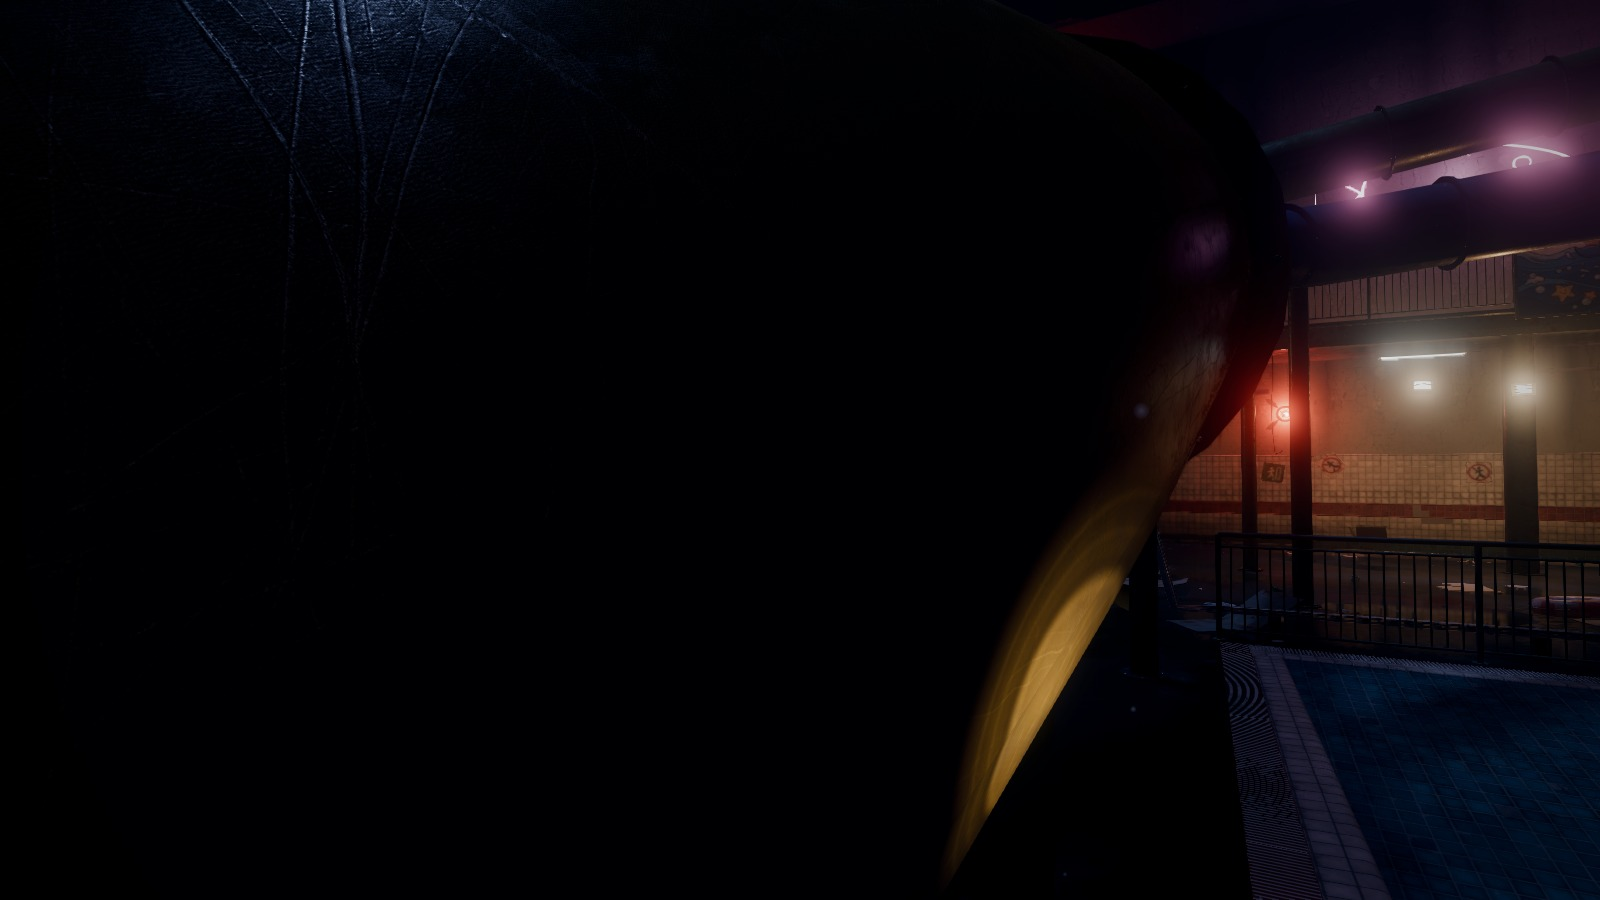
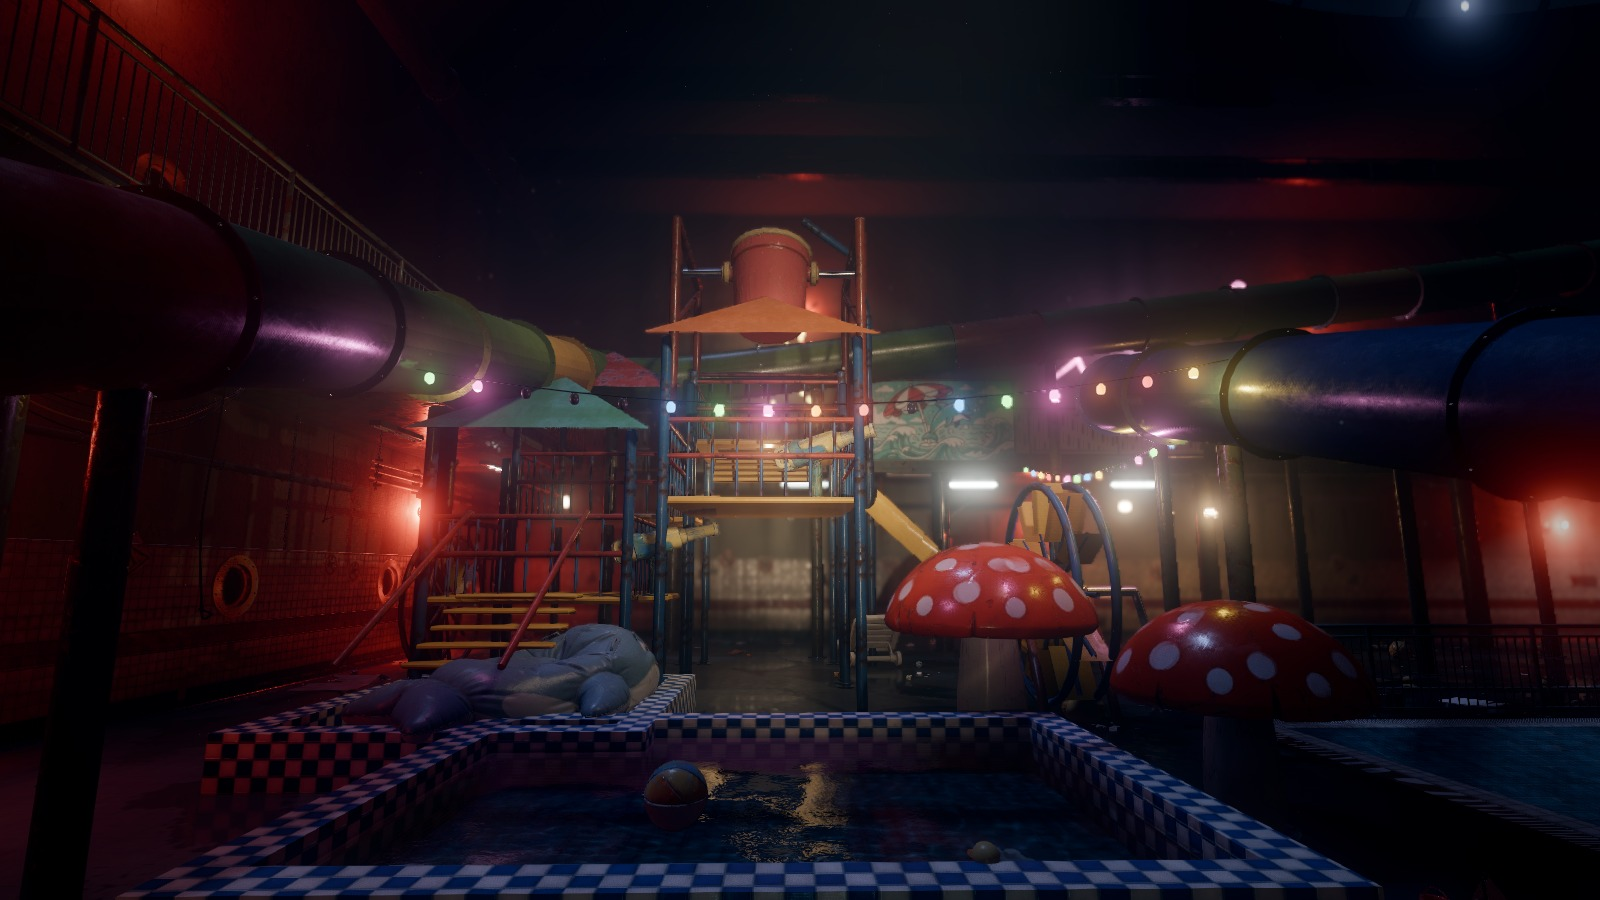
Sala: scatto DOPO dell'area bimbi con il festone e la plafoniera, camera d spostata
Claude-Session: https://claude.ai/code/session_01Q9PdaHCaFPsyZ4J69AtTTt

diff --git a/docs/report/grafica.md b/docs/report/grafica.md
@@ -89,8 +89,8 @@ Luminosità media rispetto a `combinato_`: corridoio −10%, tornello −6%, sta
 ## Sala principale vera: prima e dopo
 
 **DOPO per la v0.2.1** (`docs/report/qualita_sala/dopo_*.jpg`, le 6 camere di `tests/scatti_sala.gd`). Sono fatti su `lavoro/ambiente` 474a772 unito a questo branch, in un worktree locale. Il GI (`scenes/sala/gi/sala.res`) è cotto sulla stessa geometria. Per stare nella memoria del sandbox, le texture estratte dai GLB della sala sono in VRAM compressa (come le comprime la CI con `tools/godot_vram_textures.py`). In Lossless la sala da sola supera i 13,6 GB su llvmpipe.
-Luminosità media: a_ingresso 28 (prima 48), b_vasca_3m 27 (prima 33), c 17, d 10, e 24, f 16.
-La camera d (area bimbi) guarda la parte bassa dello scivolo, in controluce rispetto a luce_area_bimbi, ed esce quasi nera. Va rivista: o la camera o una luce davanti alla struttura di gioco.
+Luminosità media: a_ingresso 28 (prima 48), b_vasca_3m 27 (prima 33), c 17, d 39, e 24, f 16.
+Area bimbi: LookSala crea un festone di lampadine colorate (alcune rotte, alcune che sfarfallano) sul fronte e sul fianco est della struttura di gioco, più una plafoniera appesa al soffitto che illumina il fronte e il secchio. La camera d era coperta dallo scivolo grande: ora sta in (-12,5; 0; -4,5) e guarda verso (-12,3; 3,4; -15), davanti alla vaschetta. Luminosità media da 10 a 39.
 
 
 Scena di prova: `labs/grafica/sala_reale/` con i GLB veri (`strumenti/prepara_sala_reale.sh` li copia e li importa con lo script di post-import). Consegna: `godot/addons/grafica/look_sala.gd` + `godot/addons/grafica/sala/*.tres` (passi nel README dell'addon).
